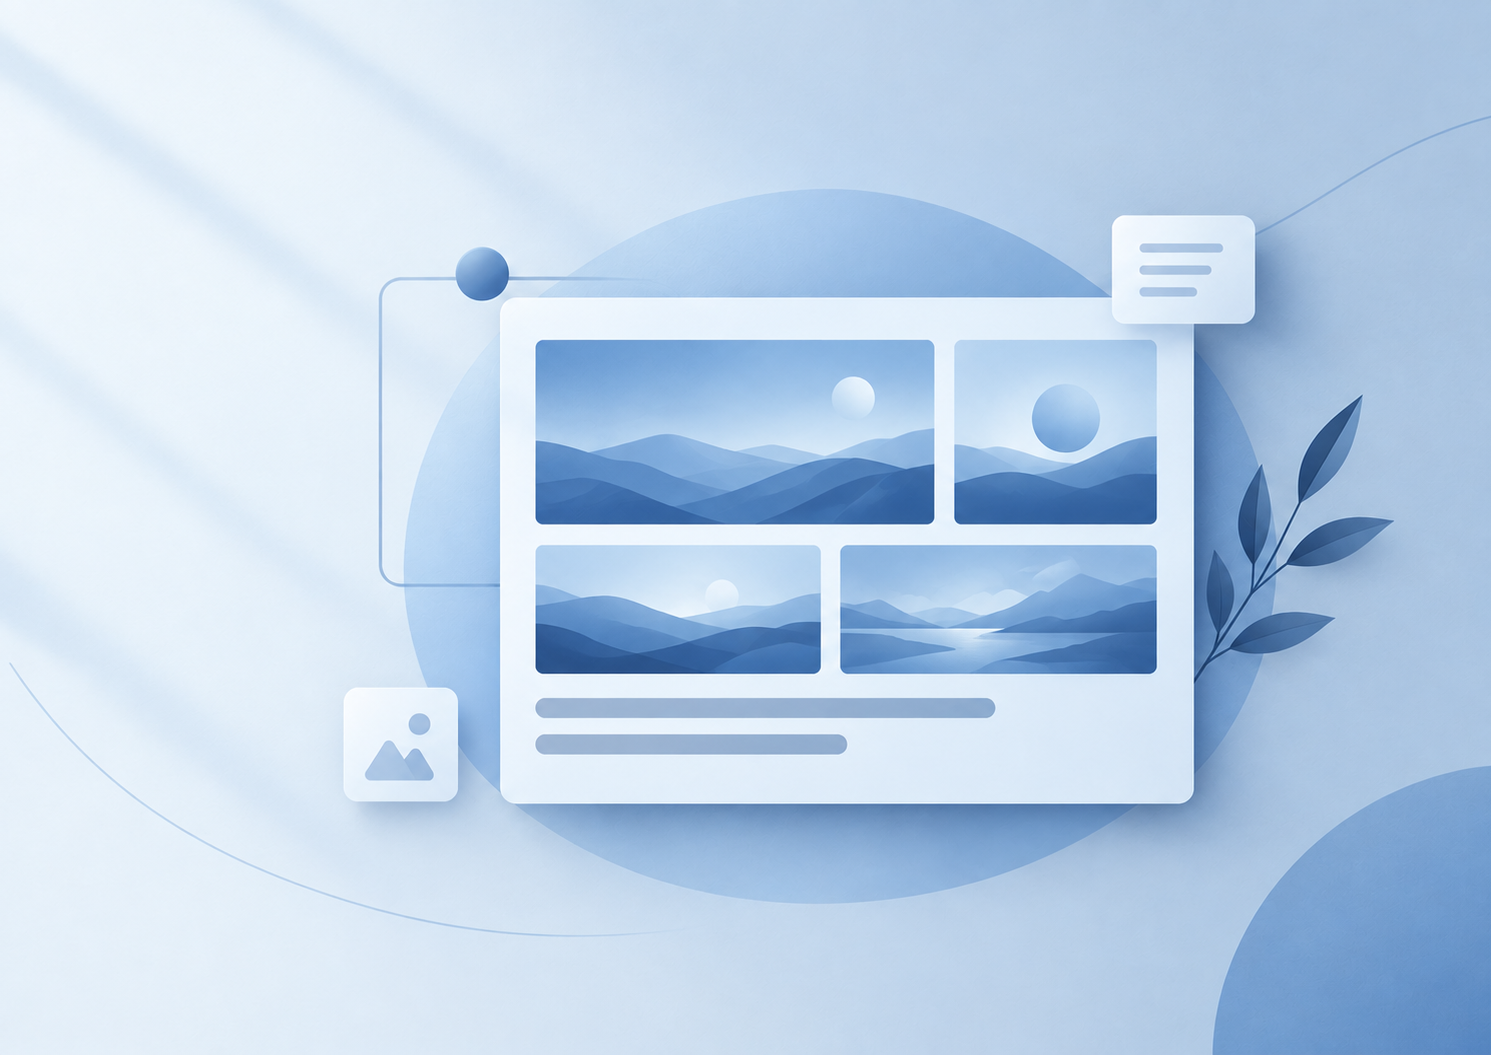
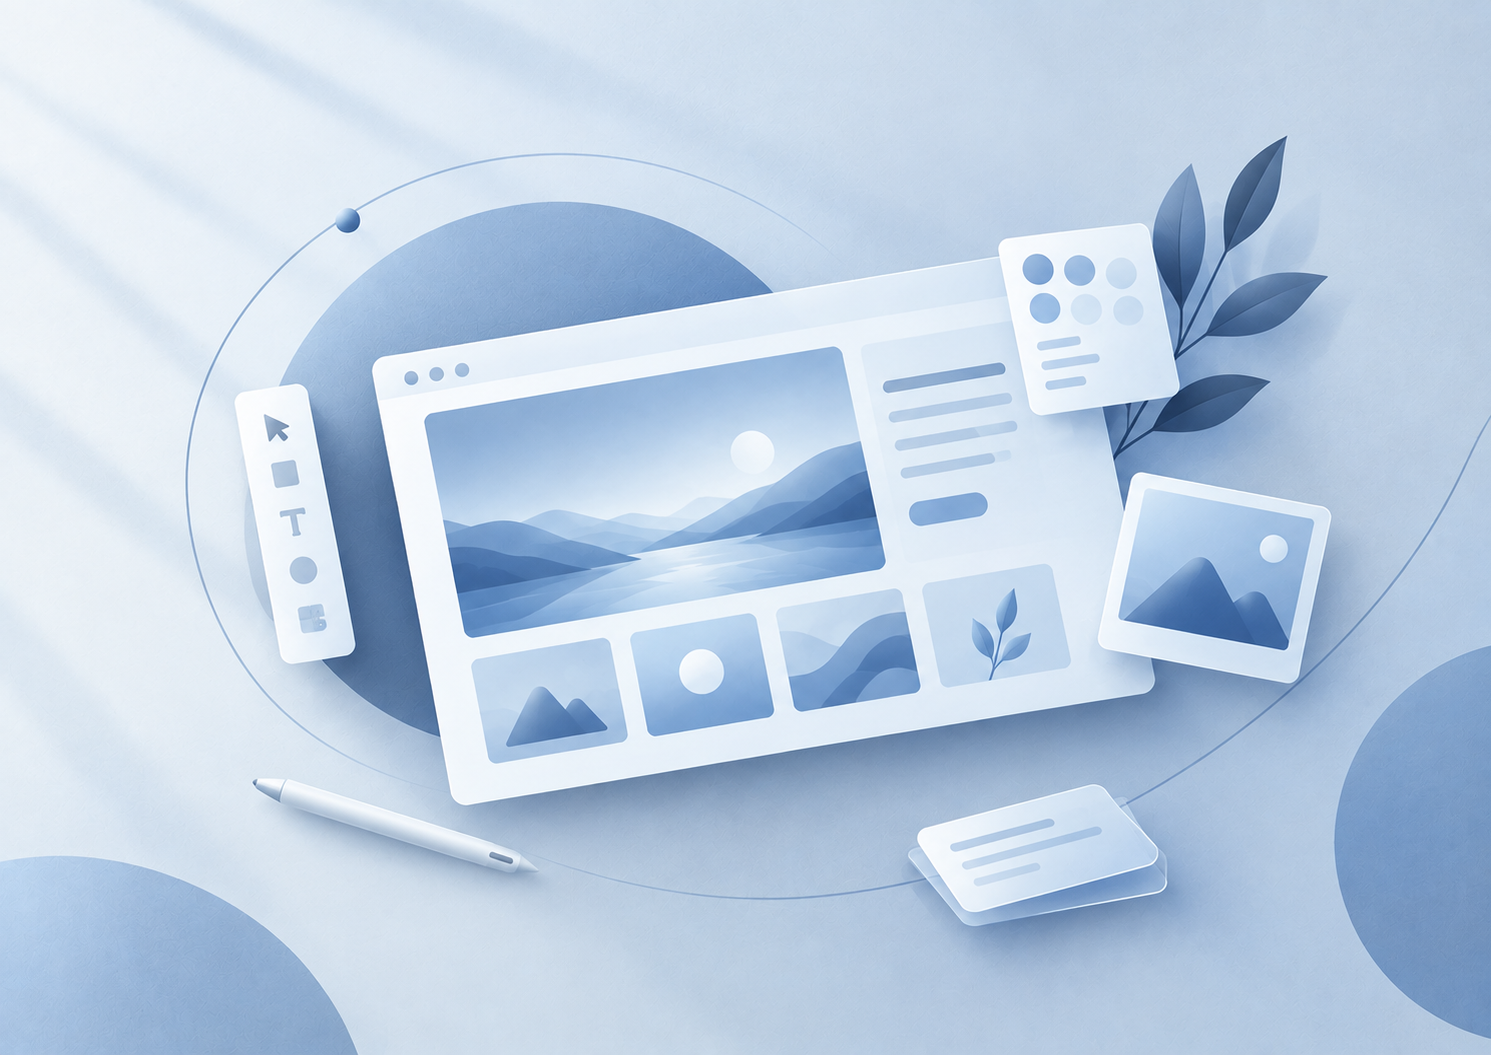
Improve print size selection and layout
Update the AI image generation print-size flow to support orientation-aware group selection, preview matching, and safer dropdown behavior. This also resets the composer state when starting a new chat and refines the print-size card styling so portrait/landscape layouts render cleanly across screen sizes. The related landscape preview assets were refreshed to match the new layout.

diff --git a/src/pages/Slides/AIStudio/AIImageGenerationUpdate.jsx b/src/pages/Slides/AIStudio/AIImageGenerationUpdate.jsx
@@ -227,6 +227,24 @@ function printFormatForGroup(group, formats, orientation) {
   return formats.find((f) => f.id === id) || null;
 }
 
+function printOrientsForGroup(group) {
+  if (!group) return ['portrait', 'landscape'];
+  if (group.kind === 'business-card') return ['landscape'];
+  if (group.kind === 'invitation') return ['portrait'];
+  return ['portrait', 'landscape'];
+}
+
+function printGroupForFormat(format) {
+  if (!format) return null;
+  const print = format.print || {};
+  const kind = String(print.kind || '').replace(/_/g, '-');
+  const series = print.series || String(format.id || '').split('-')[1];
+  return PRINT_GROUPS.find((g) => {
+    if (g.formatId) return g.formatId === format.id;
+    return g.kind === kind && g.series === series;
+  }) || null;
+}
+
 const SOCIAL_PREVIEW = {
   'youtube-thumbnail': youtubeThumbPreview,
   'instagram-post': instagramPostPreview,
@@ -496,6 +514,11 @@ export default function AIImageGenerationUpdate({ onBack, onOpenBilling, onNavig
     const handleClickOutside = (event) => {
       if (chatboxRef.current && !chatboxRef.current.contains(event.target)) {
         setIsComposerExpanded(false);
+      }
+      if (!event.target.closest('.custom-dropdown')) {
+        setShowFormatDropdown(false);
+        setShowModelDropdown(false);
+        setShowStyleDropdown(false);
       }
     };
     document.addEventListener("mousedown", handleClickOutside);
@@ -810,26 +833,26 @@ export default function AIImageGenerationUpdate({ onBack, onOpenBilling, onNavig
     }
   }, [selectedFormat]);
 
+  const selectedPrintGroup = printGroupForFormat(selectedPrint);
+  const printOrientOptions = printOrientsForGroup(selectedPrintGroup);
+
   const applyPrintOrientation = (next) => {
+    if (!printOrientOptions.includes(next)) return;
     setPrintOrientation(next);
     setShowFormatDropdown(false);
     setShowModelDropdown(false);
-    const current = printFormats.find((f) => f.id === selectedFormat);
-    const kind = String(current?.print?.kind || '').replace(/_/g, '-');
-    if (kind === 'poster') {
-      const series = current.print?.series || String(current.id || '').split('-')[1];
-      const group = PRINT_GROUPS.find((g) => g.kind === 'poster' && g.series === series);
-      const fmt = printFormatForGroup(group, printFormats, next);
-      if (fmt?.id) setSelectedFormat(fmt.id);
-      return;
-    }
-    if (kind === 'invitation' && next === 'landscape') {
-      setSelectedFormat('');
-      return;
-    }
-    if (kind === 'business-card' && next === 'portrait') {
-      setSelectedFormat('');
-    }
+    const group = selectedPrintGroup;
+    if (!group) return;
+    const fmt = printFormatForGroup(group, printFormats, next);
+    if (fmt?.id) setSelectedFormat(fmt.id);
+  };
+
+  const selectPrintGroup = (group) => {
+    const orients = printOrientsForGroup(group);
+    const nextOrient = orients.includes(printOrientation) ? printOrientation : orients[0];
+    setPrintOrientation(nextOrient);
+    const fmt = printFormatForGroup(group, printFormats, nextOrient);
+    if (fmt?.id) setSelectedFormat(fmt.id);
   };
 
   if (launchStudio || activeThreadId) {
@@ -977,7 +1000,18 @@ export default function AIImageGenerationUpdate({ onBack, onOpenBilling, onNavig
         </div>
 
         <div className="sidebar-footer">
-           <button className="new-chat-btn" onClick={() => { setActiveThreadId(null); setLaunchStudio(false); }}><Plus size={16}/> New chat</button>
+           <button
+             className="new-chat-btn"
+             onClick={() => {
+               setActiveThreadId(null);
+               setLaunchStudio(false);
+               setPrompt('');
+               setImageContext(null);
+               if (activeMode === 'library') switchStudioMode('image');
+             }}
+           >
+             <Plus size={16}/> New chat
+           </button>
         </div>
       </aside>
 
@@ -1066,26 +1100,24 @@ export default function AIImageGenerationUpdate({ onBack, onOpenBilling, onNavig
         {activeMode === 'printable' && (
           <section className="styles-grid-container social-destinations print-sizes" style={{ position: 'relative', zIndex: 1 }}>
             <div className="styles-grid-title">Choose a print size</div>
-            <div className={`social-dest-grid print-size-grid${printOrientation === 'landscape' ? ' is-landscape' : ''}`}>
-              {PRINT_GROUPS.filter((group) => {
-                if (group.kind === 'poster') return true;
-                if (group.kind === 'invitation') return printOrientation === 'portrait';
-                if (group.kind === 'business-card') return printOrientation === 'landscape';
-                return false;
-              }).map((group) => {
-                const fmt = printFormatForGroup(group, printFormats, printOrientation);
+            <div className="social-dest-grid print-size-grid">
+              {PRINT_GROUPS.map((group) => {
+                const labelOrient = printOrientsForGroup(group)[0];
+                const fmt = printFormatForGroup(group, printFormats, labelOrient);
                 if (!fmt) return null;
                 const print = fmt.print || {};
-                const orient = print.orientation || 'portrait';
-                const previewSrc = printPreviewFor(group, printOrientation);
-                const selected = selectedFormat === fmt.id;
+                const previewSrc = printPreviewFor(
+                  group,
+                  group.kind === 'poster' ? 'landscape' : labelOrient
+                );
+                const selected = selectedPrintGroup?.id === group.id;
                 return (
                   <button
                     type="button"
                     key={group.id}
-                    data-shape={orient === 'landscape' ? 'banner' : 'portrait'}
+                    data-shape={group.kind === 'poster' || labelOrient === 'landscape' ? 'banner' : 'portrait'}
                     className={`social-dest-card print-size-card ${selected ? 'selected' : ''}`}
-                    onClick={() => setSelectedFormat(fmt.id)}
+                    onClick={() => selectPrintGroup(group)}
                   >
                     <span className="social-dest-preview print-size-preview">
                       <img src={previewSrc} alt="" />
@@ -1275,7 +1307,10 @@ export default function AIImageGenerationUpdate({ onBack, onOpenBilling, onNavig
                 <div className="chatbox-selectors" style={{ overflow: 'visible', flexWrap: 'wrap' }}>
                   
                   <div className="custom-dropdown">
-                    <button className="dropdown-trigger" onClick={() => setShowModelDropdown(!showModelDropdown)}>
+                    <button className="dropdown-trigger" onClick={() => {
+                      setShowModelDropdown(!showModelDropdown);
+                      setShowFormatDropdown(false);
+                    }}>
                       {getModelIcon(selectedModel)}
                       <span>{selectedModelObj?.name || selectedModel || "GPT Image"}</span>
                       <ChevronDown size={14}/>
@@ -1347,7 +1382,7 @@ export default function AIImageGenerationUpdate({ onBack, onOpenBilling, onNavig
                       <div className="model-modal" style={{ right: 0, left: 'auto', minWidth: '180px' }}>
                         <div className="model-modal-content">
                           <div className="model-group-title">Orientation</div>
-                          {['portrait', 'landscape'].map((orient) => (
+                          {printOrientOptions.map((orient) => (
                             <div
                               key={orient}
                               className={`model-card ${printOrientation === orient ? 'active' : ''}`}

diff --git a/src/pages/Slides/AIStudio/AIImageGenerationUpdate.css b/src/pages/Slides/AIStudio/AIImageGenerationUpdate.css
@@ -344,6 +344,11 @@
   margin-top: 28px;
 }
 
+.social-destinations.print-sizes {
+  margin-top: 12px;
+  overflow: visible;
+}
+
 .social-destinations .styles-grid-title {
   margin-bottom: 10px;
 }
@@ -483,25 +488,40 @@
 }
 
 .print-size-grid {
-  grid-template-columns: repeat(4, minmax(0, 1fr));
-  max-width: 960px;
+  grid-template-columns: repeat(5, minmax(0, 1fr));
+  max-width: 1120px;
+  max-height: none;
+  overflow: visible;
+  gap: 14px;
+  padding: 0 20px 8px;
 }
 
-.print-size-grid.is-landscape {
-  grid-template-columns: repeat(4, minmax(0, 1fr));
-  max-width: 980px;
+.print-size-grid .social-dest-card {
+  padding: 8px 8px 10px;
+  gap: 7px;
+  border-radius: 16px;
 }
 
-.print-size-grid.is-landscape .social-dest-card[data-shape="banner"] .social-dest-preview {
-  height: 128px;
+.print-size-grid .social-dest-preview,
+.print-size-grid .social-dest-card[data-shape="portrait"] .social-dest-preview,
+.print-size-grid .social-dest-card[data-shape="banner"] .social-dest-preview {
+  height: 138px;
+  border-radius: 12px;
+}
+
+.print-size-grid .social-dest-name {
+  font-size: 13px;
+}
+
+.print-size-grid .social-dest-size {
+  font-size: 11px;
 }
 
 @media (max-width: 1100px) {
   .social-dest-grid {
     grid-template-columns: repeat(3, minmax(0, 1fr));
   }
-  .print-size-grid,
-  .print-size-grid.is-landscape {
+  .print-size-grid {
     grid-template-columns: repeat(2, minmax(0, 1fr));
   }
 }
